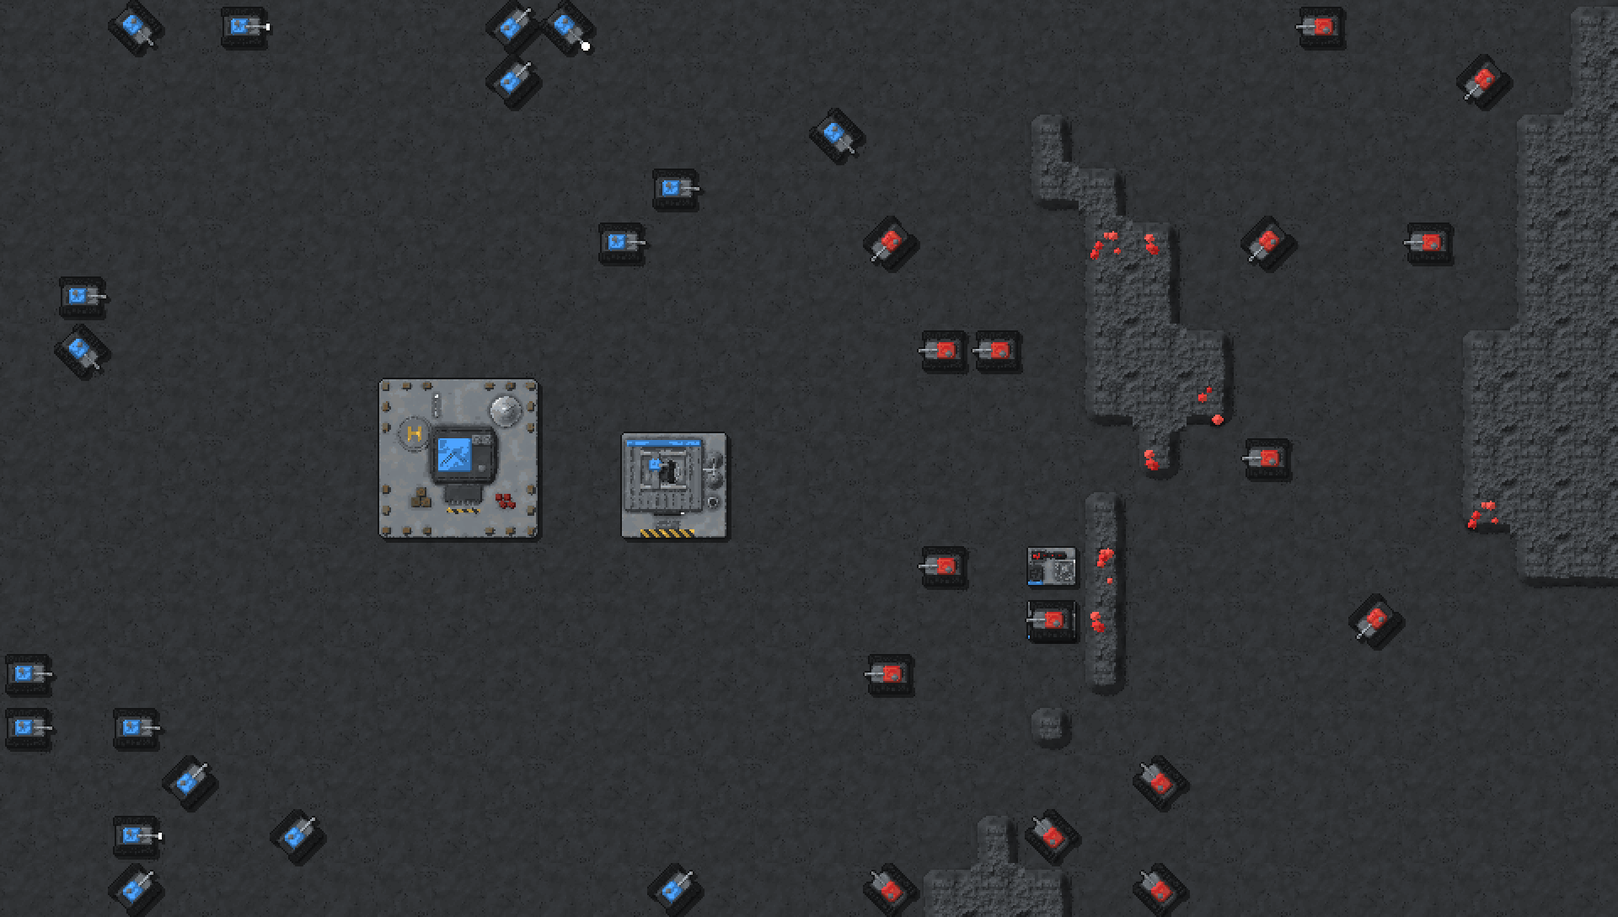
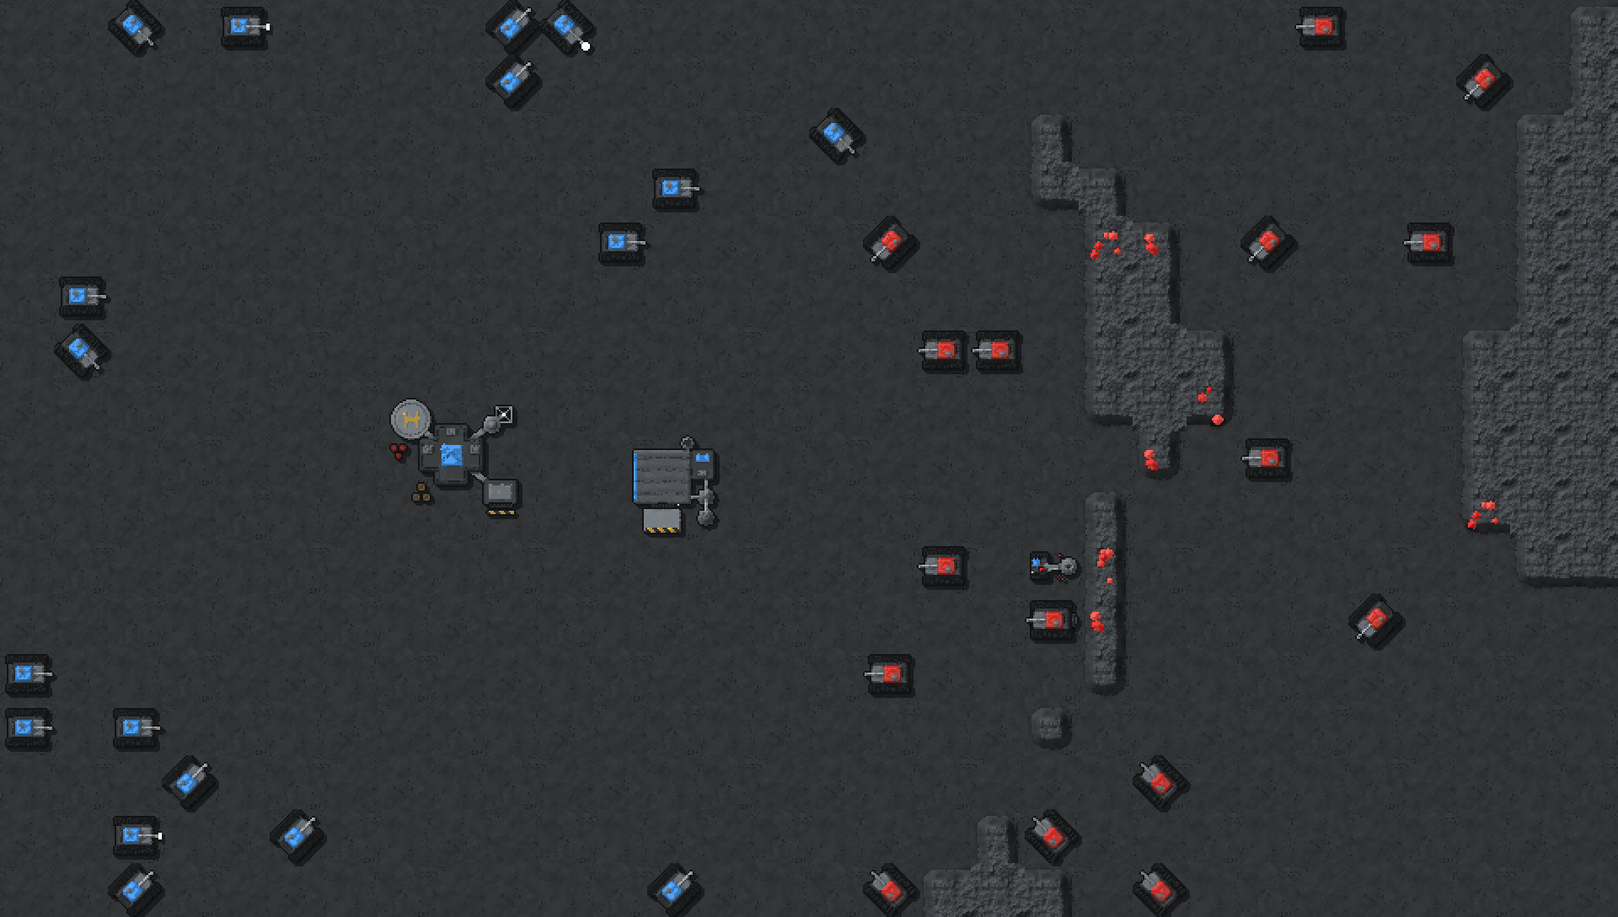
Redesign the buildings with their own silhouettes: auger rig, sawtooth factory, HQ compound

Changed region(s): [[0.2188, 0.4062, 0.3438, 0.5938], [0.375, 0.4688, 0.4688, 0.5938], [0.625, 0.5938, 0.6875, 0.6562]]

diff --git a/docs/art/pixel/index.html b/docs/art/pixel/index.html
@@ -8,13 +8,13 @@ p{color:var(--muted);margin:4px 0 12px} ul{color:var(--muted);margin:4px 0 12px}
 section{background:var(--panel);border-radius:8px;padding:16px;margin:20px 0}
 img{image-rendering:pixelated;max-width:100%;height:auto;display:block;border-radius:4px}
 </style></head><body><main>
-<h1>WAR-2D pixel style samples (round 3)</h1>
+<h1>WAR-2D pixel style samples (round 4)</h1>
 <p>The lit models from round 2, finished as pixel art: 32 px per tile (your current art's size), every pixel snapped to a limited Charcoal palette with no blending, a 1 px dark outline and hard 2 px shadows. Blue and red are player colours 1 and 2.</p>
-<p>The buildings were redesigned to show what they do:</p>
+<p>Round 4: tanks and terrain are unchanged (approved). The buildings were redesigned with their own silhouettes; their footprint is still square for gameplay, but the ground shows around them:</p>
 <ul>
-<li><b>Small Unit Spawner</b>: a vehicle factory. The roof is open over the assembly bay, where a tank chassis sits on a turntable under a gantry crane carrying its turret (team colour). The striped roller door on the south side is where vehicles leave. Fuel tanks and a pipe on the east side, an exhaust stack.</li>
-<li><b>HQ</b>: a command post on a concrete pad behind sandbags: a bunker with the team's roof marking and AC units, a radar dish, an antenna, a helipad, a garage with a striped apron, supply crates and fuel drums.</li>
-<li><b>Miner</b>: a drilling rig. A derrick over the drill at the gem face (east), a conveyor carrying ore back to a hopper, and an engine with an exhaust.</li>
+<li><b>Miner</b>: a small tracked rig with a team-coloured cab and an ore hopper; its boom reaches east to a big spiral auger at the gem face, with ore spilling beside it. The auger turns when animated.</li>
+<li><b>Small Unit Spawner</b>: a factory hall with a sawtooth roof (lit slopes and skylight strips), a team stripe, a roller door onto a striped loading apron, an office annex with a team roof plate, a tall smokestack, and fuel tanks piped to the annex.</li>
+<li><b>HQ</b>: a compound: a cross-shaped command building with the team chevron and AC units, a lattice comms tower with a dish and beacon, a round helipad, a garage with a striped apron, walkways, crates and fuel drums.</li>
 </ul>
 <section><h2>In game (2×, about the default zoom)</h2><img src="scene.png" alt="In-game scene"></section>
 <section><h2>Units and buildings (4×)</h2><p>The Tank in 8 facings, the Tank firing, the Miner, the Small Unit Spawner and the HQ.</p><img src="sprites.png" alt="Units and buildings"></section>

diff --git a/Assets/Scripts/Art/Render/RenderGen.cs b/Assets/Scripts/Art/Render/RenderGen.cs
@@ -100,55 +100,48 @@ namespace WAR2D.Art.Render
         }
 
         /// <summary>
-        /// The Miner (1×1): a drilling rig. A truss derrick stands over the drill at the gem face (east); a
-        /// conveyor carries ore chunks back to a hopper; an engine with an exhaust drives it. Frames turn the
-        /// drill and advance the belt.
+        /// The Miner (1×1): a small tracked rig whose boom reaches east to a big spiral auger at the gem face,
+        /// with ore spilling beside it and a hopper on the rig. Frames turn the auger.
         /// </summary>
         public static LitCanvas Miner(int frame)
         {
             var c = new LitCanvas(TileSize, TileSize);
             float o = TileSize / 2f;
-            // Skid frame the rig sits on.
-            c.Shape((x, y) => Box(x, y, o, o, 29, 22, 3), Concrete, 4, 1.5f, 1.5f);
-            // Engine block (west) with a cooling grille and an exhaust.
-            c.Shape((x, y) => Box(x, y, o - 19, o - 8, 9, 9, 2), Hull, 14, 2, 2);
-            c.Groove((x, y) => Box(x, y, o - 19, o - 8, 7, 7) > 0 ? 9 : Mathf.Abs(Mod(y, 4) - 2) - 0.8f, 1.2f, 0.9f);
-            c.Shape((x, y) => Circle(x, y, o - 24, o + 4, 3), Steel, 18, 1.2f, 1.5f);
-            c.Shape((x, y) => Circle(x, y, o - 24, o + 4, 1.6f), Dark, 16, 0.5f, 0.5f);
-            // Hopper (north-west) holding mined gems.
-            c.Shape((x, y) => Box(x, y, o - 17, o + 13, 10, 8, 2), Plate, 12, 2, 2);
-            c.Shape((x, y) => Box(x, y, o - 17, o + 13, 7, 5, 1), Dark, 7, 1, 1);
-            foreach (var (gx, gy) in new[] { (-20f, 12f), (-15f, 14f), (-17f, 10f), (-13f, 11f) })
-                c.Shape((x, y) => Polygon(x, y, o + gx, o + gy, 2.2f, 6, 0.3f), Ore, 9, 1.5f, 1.5f);
-            // Conveyor from the drill to the hopper; belt cleats and ore chunks move with the frame.
-            c.Shape((x, y) => Box(x, y, o + 2, o + 13, 15, 3.5f, 1), Rubber, 9, 1, 1);
-            c.Groove((x, y) => Box(x, y, o + 2, o + 13, 15, 3) > 0 ? 9 : Mathf.Abs(Mod(x + frame * 2, 4) - 2) - 0.4f, 0.7f, 0.4f);
-            for (int k = 0; k < 3; k++)
-            {
-                float gx = o + 12 - Mod(k * 9 + frame * 2, 27);
-                c.Shape((x, y) => Polygon(x, y, gx, o + 13, 1.8f, 5, k), Ore, 11, 1, 1);
-            }
-            // Derrick over the drill at the gem face: a truss square with cross braces, the drill inside.
-            float dx = o + 17, dy = o - 4;
-            c.Shape((x, y) => Mathf.Max(Box(x, y, dx, dy, 12, 12, 1), -Box(x, y, dx, dy, 9f, 9f)), Steel, 22, 1, 2);
+            // Tracks and rig body (west), with a team cab and a hopper of ore.
             foreach (float s in new[] { -1f, 1f })
-                c.Shape((x, y) => Capsule(x, y, dx - 10, dy - 10 * s, dx + 10, dy + 10 * s, 1.6f), Plate, 21, 1f, 1.2f);
-            c.Shape((x, y) => Circle(x, y, dx, dy, 6), Steel, 16, 4, 5);
+            {
+                c.Shape((x, y) => Box(x, y, o - 14, o + s * 12, 11, 4, 2), Rubber, 6, 1.5f, 2);
+                c.Groove((x, y) => Box(x, y, o - 14, o + s * 12, 10, 3) > 0 ? 9 : Mathf.Abs(Mod(x, 4) - 2) - 0.7f, 1, 0.8f);
+            }
+            c.Shape((x, y) => Box(x, y, o - 14, o, 10, 9, 2.5f), Hull, 12, 2, 2.5f);
+            c.Shape((x, y) => Box(x, y, o - 18, o + 4, 5, 5, 1.5f), Team, 16, 1.5f, 2);
+            c.Shape((x, y) => Box(x, y, o - 11, o - 4, 5, 4, 1), Dark, 9, 1, 1);
+            c.Shape((x, y) => Polygon(x, y, o - 12, o - 4, 2.4f, 5, 0.2f), Ore, 12, 1.2f, 1.5f);
+            c.Shape((x, y) => Polygon(x, y, o - 9, o - 3, 2f, 6, 0.9f), Ore, 11.5f, 1.2f, 1.5f);
+            // Boom with a hydraulic ram.
+            c.Shape((x, y) => Capsule(x, y, o - 6, o, o + 16, o, 3.4f), Plate, 15, 1.5f, 2);
+            c.Shape((x, y) => Capsule(x, y, o - 4, o - 5, o + 10, o - 2, 1.4f), Steel, 16, 0.8f, 1);
+            // The auger: a big steel disc with spiral flutes, turning with the frame.
+            float ax = o + 20, ay = o;
+            c.Shape((x, y) => Circle(x, y, ax, ay, 11), Steel, 20, 6, 8);
             float phase = frame * Mathf.PI / 2;
             c.Groove((x, y) =>
             {
-                float px = x - dx, py = y - dy, r = Mathf.Sqrt(px * px + py * py);
-                return r > 5.5f ? 9 : Mathf.Abs(Mathf.Sin(Mathf.Atan2(py, px) * 3 + r * 0.9f + phase)) - 0.35f;
-            }, 1.2f, 0.4f);
-            // Team panel on the engine, and a work lamp.
-            c.Shape((x, y) => Box(x, y, o - 19, o - 20, 9, 2.5f, 1), Team, 10, 1, 1);
-            c.Shape((x, y) => Circle(x, y, dx + 10, dy + 10, 1.6f), Lamp, 23, 0.6f, 0.4f);
-            c.Grime(11, 0.25f, 0.12f, 6);
+                float px = x - ax, py = y - ay, r = Mathf.Sqrt(px * px + py * py);
+                return r > 10.5f || r < 2.5f ? 9 : Mathf.Abs(Mathf.Sin(Mathf.Atan2(py, px) * 2 - r * 0.45f + phase)) - 0.45f;
+            }, 2.2f, 1.2f);
+            c.Shape((x, y) => Circle(x, y, ax, ay, 2.6f), Dark, 21, 1, 1);
+            // Ore spilling beside the auger.
+            foreach (var (gx, gy, r) in new[] { (o + 8f, o - 12f, 2.4f), (o + 13f, o - 15f, 1.8f), (o + 10f, o + 13f, 2.1f) })
+                c.Shape((x, y) => Polygon(x, y, gx, gy, r, 6, gx), Ore, 5, 1.2f, 1.5f);
+            c.Shape((x, y) => Circle(x, y, o - 22, o - 7, 1.4f), Lamp, 13, 0.5f, 0.3f);
+            c.Grime(11, 0.2f, 0.08f, 6);
             return c;
         }
 
         private static Material Ore => new Material(C(StylePalette.Gem1), 0.8f, 70, glow: 0.3f);
         private static Material Hazard => new Material(C(StylePalette.Warn) * 0.95f, 0.15f, 16);
+        private static Material Glass => new Material(new Color(0.22f, 0.36f, 0.42f), 0.9f, 90);
 
         /// <summary>Hazard stripes (warning yellow and dark) inside <paramref name="sdf"/>.</summary>
         private static void Stripes(LitCanvas c, Func<float, float, float> sdf, float top)
@@ -157,135 +150,108 @@ namespace WAR2D.Art.Render
             c.Shape((x, y) => Mathf.Max(sdf(x, y), Mathf.Abs(Mod(x + y, 12) - 6) - 3), Dark, top, 0.4f, 0.3f);
         }
 
-        /// <summary>A half-built tank (no turret) for the factory bay.</summary>
-        private static void Chassis(LitCanvas c, float cx, float cy, float top)
-        {
-            foreach (float s in new[] { -1f, 1f })
-            {
-                c.Shape((x, y) => Box(x, y, cx + s * 9, cy, 3.5f, 13, 1.5f), Rubber, top + 3, 1, 1.5f);
-                c.Groove((x, y) => Box(x, y, cx + s * 9, cy, 3, 12) > 0 ? 9 : Mathf.Abs(Mod(y, 3) - 1.5f) - 0.6f, 0.8f, 0.5f);
-            }
-            c.Shape((x, y) => Box(x, y, cx, cy, 6.5f, 11, 2), Hull, top + 5, 1.5f, 2);
-            c.Shape((x, y) => Circle(x, y, cx, cy + 1, 3.5f), Dark, top + 4, 1, 1); // the empty turret ring
-        }
-
         /// <summary>
-        /// The Small Unit Spawner (2×2): a vehicle factory. Its roof is open over the assembly bay, where a
-        /// tank is being built on a turntable under a gantry crane carrying its turret; vehicles leave through
-        /// the striped roller door on the south side. Fuel tanks and a pipe feed it; a stack vents it. Frame 1
-        /// moves the crane and dims the door lamp.
+        /// The Small Unit Spawner (2×2): a vehicle factory. A hall with a sawtooth roof (lit slopes and
+        /// skylights), an office annex, a tall smokestack, fuel tanks outside, and a striped loading apron
+        /// in front of the roller door, where vehicles come out. Frame 1 dims the door lamp.
         /// </summary>
         public static LitCanvas Spawner(int frame)
         {
             int s = 2 * TileSize;
             var c = new LitCanvas(s, s);
             float o = s / 2f;
-            // Concrete apron, tyre tracks out of the door, hazard stripes along the exit.
-            c.Shape((x, y) => Box(x, y, o, o, 62, 62, 4), Concrete, 3, 1.5f, 1.5f);
-            foreach (float tx in new[] { o - 14f, o - 2f }) c.Groove((x, y) => y > 22 ? 9 : Mathf.Abs(x - tx) - 1.5f, 0.6f, 1.2f);
-            Stripes(c, (x, y) => Box(x, y, o - 8, 7, 32, 5), 3.5f);
-            // Main hall (west and middle): corrugated roof around an open bay.
-            Func<float, float, float> hall = (x, y) => Box(x, y, o - 12, o + 12, 46, 42, 3);
-            Func<float, float, float> bay = (x, y) => Box(x, y, o - 12, o + 18, 26, 26, 2);
-            c.Shape((x, y) => Mathf.Max(hall(x, y), -bay(x, y)), Plate, 26, 2, 3);
-            c.Groove((x, y) => hall(x, y) > -3 || bay(x, y) < 3 ? 9 : Mathf.Abs(Mod(x, 10) - 5) - 0.9f, 1.4f, 1.2f);
-            // The bay floor, the turntable and the tank being built.
-            c.Shape(bay, Concrete, 6, 1, 1);
-            c.Shape((x, y) => Circle(x, y, o - 12, o + 16, 19), Steel, 8, 1, 1);
-            c.Groove((x, y) => Mathf.Abs(Circle(x, y, o - 12, o + 16, 16)) - 0.1f, 0.6f, 0.5f);
-            Chassis(c, o - 12, o + 16, 8);
-            // Gantry crane: two rails across the bay, a trolley carrying the turret.
-            foreach (float ry in new[] { o + 38f, o - 2f })
-                c.Shape((x, y) => Box(x, y, o - 12, ry, 28, 3f, 1f), Steel, 30, 1.2f, 1.5f);
-            float trolley = o - 22 + frame * 8;
-            c.Shape((x, y) => Box(x, y, trolley, o + 18, 5, 23, 1.5f), Plate, 32, 1.5f, 2f);
-            c.Shape((x, y) => Box(x, y, trolley, o + 24, 8, 7, 2.5f), Team, 34, 2f, 2.5f);
-            c.Shape((x, y) => Box(x, y, trolley + 10, o + 24, 6, 2f, 1f), Steel, 34, 1f, 1f);
-            // Roller door (south) with its lamp, in the hall's south wall.
-            c.Shape((x, y) => Box(x, y, o - 8, o - 33, 16, 2.5f, 0.5f), Dark, 24, 0.6f, 0.6f);
-            c.Shape((x, y) => Box(x, y, o - 8, 18, 14, 5, 1), Plate, 8, 1, 1);
-            c.Groove((x, y) => Box(x, y, o - 8, 18, 13, 4) > 0 ? 9 : Mathf.Abs(Mod(y, 4) - 2) - 0.7f, 1f, 0.9f);
-            c.Shape((x, y) => Circle(x, y, o + 10, o - 33, 1.8f), frame == 0 ? Lamp : Plate, 27, 0.6f, 0.4f);
-            // Team stripe along the hall's roof edge.
-            c.Shape((x, y) => Box(x, y, o - 12, o + 50, 44, 4, 1f), Team, 27, 1f, 1f);
-            // Fuel tanks (east), a pipe into the hall, and the stack.
-            foreach (float ty in new[] { o + 30f, o + 6f })
+            // Loading apron with stripes along its front edge.
+            c.Shape((x, y) => Box(x, y, o - 14, o - 42, 22, 14, 2), Concrete, 3, 1, 1.5f);
+            Stripes(c, (x, y) => Box(x, y, o - 14, o - 53, 20, 3), 3.5f);
+            // Hall: a sawtooth roof, rising in each bay toward a skylight strip.
+            float hx = o - 14, hy = o + 10, period = 14;
+            Func<float, float, float> hall = (x, y) => Box(x, y, hx, hy, 34, 32, 2);
+            c.Shape(hall, Plate, 20, 1.5f, 3);
+            c.Displace((x, y) => hall(x, y) > -2 ? 0 : 7 * Mod(y - (hy - 32), period) / period);
+            c.Tint((x, y, col) => hall(x, y) > -2 ? col : Mod(y - (hy - 32), period) > period - 3 ? Glass.Albedo : col);
+            c.Groove((x, y) => hall(x, y) > -2 ? 9 : Mathf.Abs(Mod(y - (hy - 32), period) - period + 0.5f) - 0.5f, 1.5f, 1f);
+            // Roller door at the hall's south wall, and its lamp.
+            c.Shape((x, y) => Box(x, y, hx, hy - 34, 15, 3, 1), Dark, 10, 1, 1);
+            c.Groove((x, y) => Box(x, y, hx, hy - 34, 14, 2) > 0 ? 9 : Mathf.Abs(Mod(x, 4) - 2) - 0.7f, 0.8f, 0.8f);
+            c.Shape((x, y) => Circle(x, y, hx + 19, hy - 33, 1.8f), frame == 0 ? Lamp : Plate, 14, 0.6f, 0.4f);
+            // Team stripe along the hall's west wall.
+            c.Shape((x, y) => Box(x, y, hx - 33, hy, 2.5f, 28, 1), Team, 22, 1, 1);
+            // Office annex (east) with an AC unit and a team roof plate.
+            c.Shape((x, y) => Box(x, y, o + 34, o + 24, 14, 18, 2.5f), Hull, 16, 2, 2.5f);
+            c.Shape((x, y) => Box(x, y, o + 34, o + 32, 9, 5, 1.5f), Team, 17.5f, 1, 1.2f);
+            c.Shape((x, y) => Box(x, y, o + 34, o + 14, 5, 4, 1), Plate, 19, 1, 1.5f);
+            c.Groove((x, y) => Mathf.Abs(Circle(x, y, o + 34, o + 14, 2.5f)) - 0.2f, 0.8f, 0.6f);
+            // Smokestack (north-east of the hall), tall, with a dark mouth and a band.
+            c.Shape((x, y) => Circle(x, y, o + 16, o + 50, 8), Steel, 40, 2.5f, 4);
+            c.Groove((x, y) => Mathf.Abs(Circle(x, y, o + 16, o + 50, 6.5f)) - 0.3f, 1, 0.8f);
+            c.Shape((x, y) => Circle(x, y, o + 16, o + 50, 4.5f), Dark, 34, 1, 1);
+            // Fuel tanks (south-east) on short legs, piped to the annex.
+            foreach (float ty in new[] { o - 14f, o - 38f })
             {
-                c.Shape((x, y) => Circle(x, y, o + 48, ty, 10), Plate, 20, 7, 9);
-                c.Groove((x, y) => Mathf.Abs(Circle(x, y, o + 48, ty, 6)) - 0.1f, 0.6f, 0.5f);
-                c.Rivet(o + 48, ty, 1.5f, 1.2f);
+                c.Shape((x, y) => Circle(x, y, o + 38, ty, 10), Plate, 22, 8, 12);
+                c.Groove((x, y) => Mathf.Abs(Circle(x, y, o + 38, ty, 6)) - 0.2f, 0.8f, 0.6f);
             }
-            c.Shape((x, y) => Mathf.Min(Capsule(x, y, o + 48, o + 18, o + 36, o + 18, 2), Capsule(x, y, o + 48, o + 30, o + 48, o + 6, 1.6f)), Steel, 14, 1.2f, 1.5f);
-            c.Shape((x, y) => Circle(x, y, o + 46, o - 20, 7), Steel, 36, 2, 3);
-            c.Shape((x, y) => Circle(x, y, o + 46, o - 20, 4), Dark, 30, 1, 1);
-            c.Grime(23, 0.3f, 0.13f, 8);
+            c.Shape((x, y) => Mathf.Min(Capsule(x, y, o + 38, o - 38, o + 38, o + 6, 1.8f), Capsule(x, y, o + 28, o - 14, o + 20, o - 14, 1.8f)), Steel, 12, 1, 1.2f);
+            c.Grime(23, 0.2f, 0.08f, 8);
             return c;
         }
 
         /// <summary>
-        /// The HQ (3×3): a command post. A bunker with roof AC units and the team's marking, a radar dish and
-        /// an antenna mast, a vehicle garage to the south, a landing pad to the west, fuel drums and supply
-        /// crates, all inside a sandbag wall with gaps for the roads.
+        /// The HQ (3×3): a command compound. A cross-shaped command building with the team's roof marking and
+        /// AC units, a lattice comms tower with a dish and a beacon, a round helipad, and a garage annex,
+        /// joined by walkways, with crates and fuel drums.
         /// </summary>
         public static LitCanvas Base()
         {
             int s = 3 * TileSize;
             var c = new LitCanvas(s, s);
             float o = s / 2f;
-            c.Shape((x, y) => Box(x, y, o, o, 94, 94, 6), Concrete, 3, 1.5f, 1.5f);
-            // Sandbag wall: a chain of rounded bags around the edge, with gaps north, south, east and west.
-            for (int i = 0; i < 28; i++)
+            // Walkways between the parts.
+            c.Shape((x, y) => Mathf.Min(Mathf.Min(
+                Capsule(x, y, o - 8, o + 4, o - 56, o + 46, 4),
+                Capsule(x, y, o - 8, o + 4, o + 50, o - 40, 4)),
+                Capsule(x, y, o - 8, o + 4, o + 54, o + 52, 4)), Concrete, 2.5f, 1, 1);
+            // Helipad (north-west).
+            c.Shape((x, y) => Circle(x, y, o - 56, o + 46, 24), Concrete, 4, 1.5f, 2);
+            c.Groove((x, y) => Mathf.Abs(Circle(x, y, o - 56, o + 46, 19)) - 0.3f, 0.8f, 1f);
+            c.Shape((x, y) => Mathf.Min(Mathf.Min(Box(x, y, o - 63, o + 46, 2.2f, 10), Box(x, y, o - 49, o + 46, 2.2f, 10)), Box(x, y, o - 56, o + 46, 7, 2)), Hazard, 4.6f, 0.4f, 0.4f);
+            // Command building: a cross of two blocks with a parapet, the team chevron and AC units.
+            Func<float, float, float> hq = (x, y) => Mathf.Min(Box(x, y, o - 8, o + 4, 38, 20, 3), Box(x, y, o - 8, o + 4, 20, 36, 3));
+            c.Shape(hq, Hull, 26, 3, 4);
+            c.Groove((x, y) => hq(x, y) + 4, 1.5f, 1.2f);
+            c.Shape((x, y) => Box(x, y, o - 8, o + 4, 13, 13, 2), Team, 27.5f, 1.5f, 1.5f);
+            c.Groove((x, y) => Box(x, y, o - 8, o + 4, 10, 10) > 0 ? 9 : Mathf.Abs(Mathf.Abs(x - (o - 8)) * 0.9f + (y - o - 4) - 2) - 1.5f, 1.6f, 1.4f);
+            foreach (var (ax, ay) in new[] { (o - 36f, o + 10f), (o + 20f, o + 10f), (o - 8f, o + 32f) })
             {
-                float t = i / 28f * 4, side = Mathf.Floor(t), u = (t - side) * 172 - 86;
-                if (Mathf.Abs(u) < 16) continue;
-                float bx = side == 0 ? o + u : side == 1 ? o + 86 : side == 2 ? o - u : o - 86;
-                float by = side == 0 ? o - 86 : side == 1 ? o + u : side == 2 ? o + 86 : o - u;
-                bool horizontal = side == 0 || side == 2;
-                c.Shape((x, y) => Box(x, y, bx, by, horizontal ? 5.5f : 4.5f, horizontal ? 4.5f : 5.5f, 2.5f), new Material(new Color(0.42f, 0.39f, 0.32f), 0.05f, 6), 7, 1.5f, 3);
+                c.Shape((x, y) => Box(x, y, ax, ay, 6, 5, 1.2f), Plate, 30, 1.2f, 2);
+                c.Groove((x, y) => Mathf.Abs(Circle(x, y, ax, ay, 3)) - 0.3f, 0.9f, 0.7f);
             }
-            // Landing pad (west): a ring and an H.
-            c.Shape((x, y) => Circle(x, y, o - 52, o + 30, 22), Plate, 5, 1, 1);
-            c.Groove((x, y) => Mathf.Abs(Circle(x, y, o - 52, o + 30, 18)) - 0.2f, 0.7f, 0.8f);
-            c.Shape((x, y) => Mathf.Min(Mathf.Min(Box(x, y, o - 58, o + 30, 1.8f, 9), Box(x, y, o - 46, o + 30, 1.8f, 9)), Box(x, y, o - 52, o + 30, 6, 1.6f)), Hazard, 5.6f, 0.4f, 0.4f);
-            // Bunker: chamfered block with a team roof marking, AC units and a hatch.
-            Func<float, float, float> bunker = (x, y) => Mathf.Max(Box(x, y, o + 6, o + 4, 40, 34, 4), Polygon(x, y, o + 6, o + 4, 48, 8, Mathf.PI / 8));
-            c.Shape(bunker, Hull, 24, 4, 5);
-            c.Groove((x, y) => Box(x, y, o + 6, o + 4, 34, 28, 3), 1.4f, 1.1f);
-            c.Shape((x, y) => Box(x, y, o - 4, o + 4, 20, 20, 3), Team, 26f, 2f, 2f);
-            c.Groove((x, y) => Box(x, y, o - 4, o + 4, 16, 16) > 0 ? 9 : Mathf.Abs(Mathf.Abs(x - (o - 4)) * 0.8f + (y - o - 4) * 0.9f - 2) - 1.4f, 1.5f, 1.4f); // chevron
-            foreach (float ax in new[] { o + 22f, o + 34f })
+            // Comms tower (north-east): a lattice square with cross braces, a dish and a beacon.
+            float tx = o + 54, ty = o + 52;
+            c.Shape((x, y) => Mathf.Max(Box(x, y, tx, ty, 11, 11, 1), -Box(x, y, tx, ty, 8, 8)), Steel, 34, 0.8f, 1.5f);
+            foreach (float sgn in new[] { -1f, 1f })
+                c.Shape((x, y) => Capsule(x, y, tx - 9, ty - 9 * sgn, tx + 9, ty + 9 * sgn, 1.4f), Steel, 33, 0.8f, 1);
+            c.Shape((x, y) => Circle(x, y, tx - 14, ty - 12, 11), Plate, 30, 10, 7);
+            c.Groove((x, y) => Mathf.Abs(Circle(x, y, tx - 14, ty - 12, 6)) - 0.3f, 0.8f, 0.6f);
+            c.Shape((x, y) => Circle(x, y, tx, ty, 2.5f), Lamp, 36, 0.8f, 0.5f);
+            // Garage (south-east) with a roller door and a striped apron.
+            c.Shape((x, y) => Box(x, y, o + 50, o - 40, 20, 15, 2.5f), Hull, 18, 2, 2.5f);
+            c.Shape((x, y) => Box(x, y, o + 50, o - 40, 14, 9, 1.5f), Plate, 19, 1, 1);
+            c.Shape((x, y) => Box(x, y, o + 50, o - 56, 15, 2.5f, 0.6f), Dark, 9, 0.6f, 0.6f);
+            c.Groove((x, y) => Box(x, y, o + 50, o - 56, 14, 2) > 0 ? 9 : Mathf.Abs(Mod(x, 4) - 2) - 0.7f, 0.8f, 0.8f);
+            Stripes(c, (x, y) => Box(x, y, o + 50, o - 64, 17, 3.5f), 3.5f);
+            // Supply crates (south-west) and fuel drums (by the helipad).
+            foreach (var (bx, by) in new[] { (-50f, -46f), (-38f, -46f), (-44f, -34f) })
             {
-                c.Shape((x, y) => Box(x, y, ax, o + 22, 6, 6, 1.5f), Plate, 28, 1.5f, 2f);
-                c.Groove((x, y) => Mathf.Abs(Circle(x, y, ax, o + 22, 3)) - 0.1f, 0.8f, 0.5f);
-                c.Groove((x, y) => Circle(x, y, ax, o + 22, 3) > 0 ? 9 : Mathf.Abs(Mathf.Sin(Mathf.Atan2(y - o - 22, x - ax) * 3)) - 0.4f, 0.6f, 0.3f);
+                c.Shape((x, y) => Box(x, y, o + bx, o + by, 5.5f, 5.5f, 1), new Material(new Color(0.42f, 0.33f, 0.22f), 0.08f, 8), 10, 1, 1.5f);
+                c.Groove((x, y) => Box(x, y, o + bx, o + by, 4, 4) > 0 ? 9 : Mathf.Min(Mathf.Abs(x - o - bx - (y - o - by)), Mathf.Abs(x - o - bx + (y - o - by))) - 0.6f, 0.8f, 0.6f);
             }
-            c.Shape((x, y) => Circle(x, y, o + 28, o - 12, 5), Plate, 26, 1.5f, 1.5f);
-            c.Groove((x, y) => Mathf.Abs(Circle(x, y, o + 28, o - 12, 3.2f)) - 0.1f, 0.6f, 0.4f);
-            // Radar dish on a pylon (north-east) and an antenna mast with a beacon.
-            c.Shape((x, y) => Box(x, y, o + 56, o + 56, 5, 5, 1), Plate, 18, 1, 1);
-            c.Shape((x, y) => Circle(x, y, o + 56, o + 56, 18), Steel, 32, 16, 11);
-            c.Groove((x, y) => Mathf.Abs(Circle(x, y, o + 56, o + 56, 9)) - 0.1f, 0.6f, 0.5f);
-            c.Shape((x, y) => Capsule(x, y, o + 56, o + 56, o + 66, o + 64, 1), Steel, 34, 0.5f, 0.5f);
-            c.Shape((x, y) => Circle(x, y, o - 26, o + 52, 3), Steel, 30, 1, 1);
-            c.Shape((x, y) => Capsule(x, y, o - 26, o + 52, o - 26, o + 72, 0.9f), Steel, 31, 0.5f, 0.5f);
-            c.Shape((x, y) => Circle(x, y, o - 26, o + 73, 2), Lamp, 32, 0.6f, 0.4f);
-            // Garage (south) with a striped apron.
-            c.Shape((x, y) => Box(x, y, o + 6, o - 42, 22, 10, 2), Hull, 18, 2, 2);
-            c.Shape((x, y) => Box(x, y, o + 6, o - 52, 18, 2, 0.5f), Plate, 8, 0.6f, 0.6f);
-            c.Groove((x, y) => Box(x, y, o + 6, o - 52, 17, 1.5f) > 0 ? 9 : Mathf.Abs(Mod(x, 6) - 3) - 0.8f, 1f, 0.8f);
-            Stripes(c, (x, y) => Box(x, y, o + 6, o - 62, 20, 3), 3.5f);
-            // Fuel drums and supply crates (south-east).
-            foreach (var (fx, fy) in new[] { (48f, -46f), (58f, -46f), (53f, -55f), (63f, -55f) })
+            foreach (var (fx, fy) in new[] { (-76f, 12f), (-66f, 12f), (-71f, 3f) })
             {
                 c.Shape((x, y) => Circle(x, y, o + fx, o + fy, 4.5f), new Material(new Color(0.55f, 0.18f, 0.14f), 0.4f, 30), 9, 2, 2.5f);
-                c.Rivet(o + fx, o + fy, 0.9f, 0.6f);
+                c.Rivet(o + fx, o + fy, 1f, 0.6f);
             }
-            foreach (var (bx, by) in new[] { (-50f, -52f), (-38f, -52f), (-44f, -40f) })
-            {
-                c.Shape((x, y) => Box(x, y, o + bx, o + by, 5.5f, 5.5f, 1f), new Material(new Color(0.42f, 0.33f, 0.22f), 0.08f, 8), 10, 1, 1.5f);
-                c.Groove((x, y) => Box(x, y, o + bx, o + by, 3.5f, 3.5f) > 0 ? 9 : Mathf.Min(Mathf.Abs(x - o - bx - (y - o - by)), Mathf.Abs(x - o - bx + (y - o - by))) - 0.4f, 0.6f, 0.4f);
-            }
-            c.Grime(31, 0.3f, 0.13f, 10);
+            c.Grime(31, 0.2f, 0.08f, 10);
             return c;
         }
 
